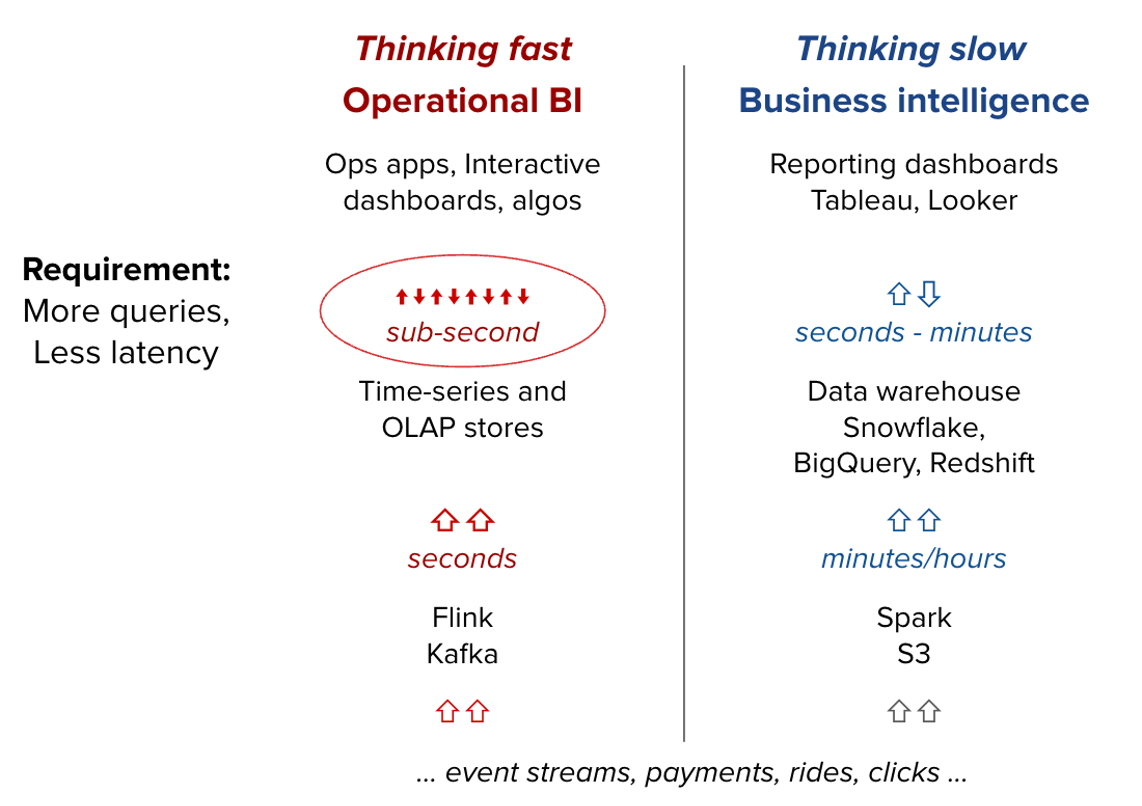
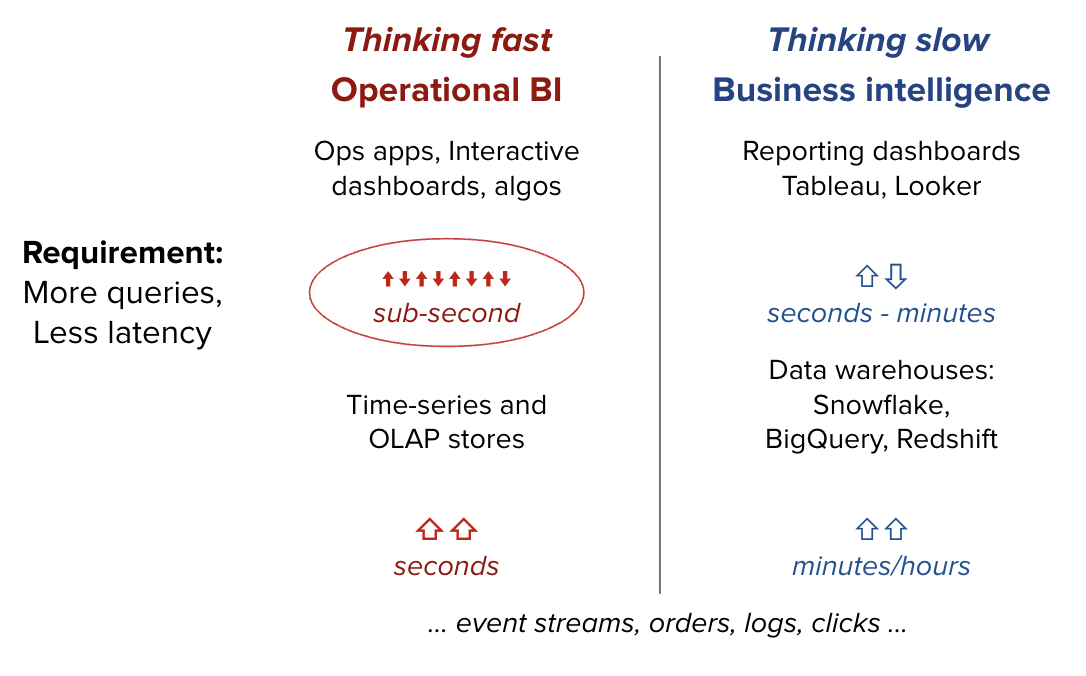
update concepts

diff --git a/docs/docs/concepts/architecture.md b/docs/docs/concepts/architecture.md
@@ -23,7 +23,7 @@ The decoupling of databases and BI tools served a purpose at one phase in the ev
 
 Engineering teams frequently get ad hoc requests from product, finance, and operations for insights into data sets that are readily available in object storage. Over time, writing complex SQL or Python reports against the data lake can become a burden and a distraction. With Rill, engineering teams can write SQL to design and deploy a small set of data models to answer a broad range of inquiries. Rill’s architecture automatically turns SQL-based data models into interactive, exploratory dashboards with no additional design effort. Engineers can focus on defining expressions for core business metrics in SQL, and Rill takes care of the rest.
 
-Building analytics directly on the data storage reduces complexity, because there are fewer moving pieces to manage, and it also lowers costs, because data can be transformed in place without duplication. Rill achieves performance that end users love by serving dashboards from in-memory data models fed by data lake sources.
+Building analytics directly on data storage reduces complexity, because there are fewer moving pieces to manage, and it also lowers costs, because data can be transformed in place without duplication. Rill achieves performance that end users love by serving dashboards from in-memory data models fed by data lake sources.
 
 In short, Rill helps engineering teams leverage the value of their data lake architectures, delighting business users without requiring multiple investments in separate ETL, data warehouse, and BI tools.
 

diff --git a/docs/docs/concepts/operational.md b/docs/docs/concepts/operational.md
@@ -11,9 +11,9 @@ import TabItem from '@theme/TabItem';
 
 The distinction between operational and business intelligence is analogous to the distinction between fast and slow thinking, as characterized by psychologist Daniel Kahneman in his paper Thinking, Fast and Slow. One system operates quickly and automatically for simple decisions and the other leverages slow and effortful deliberation for complex decisions. 
 
-Ultimately, the output of operational and business intelligence are decisions. Operational intelligence fuels fast, frequent decisions on real-time and near-time data by hands-on operators. Business intelligence drives complex decisions that occur daily or weekly, on fairly complete data sets by managers. 
+Ultimately, the output of operational and business intelligence are decisions. Operational intelligence fuels fast, frequent decisions on real-time and near-time data by hands-on operators. Business intelligence drives complex decisions that occur daily or weekly, on fairly complete data sets. 
 
-Managers can be operators too, albeit on a much higher level.  Some of the biggest consumers of operational intelligence tools are CEOs, who track and react to intraday global KPIs for their businesses.  Operational KPIs often have an organizational hierarchy, and at every level -- from a district manager to field service provider -- there are component KPIs that require continuous monitoring and decision-making.
+![operationalcomparison](../../static/img/concepts/operational/comparison.png)
 
 
 ## Why Operational BI requires new tools
